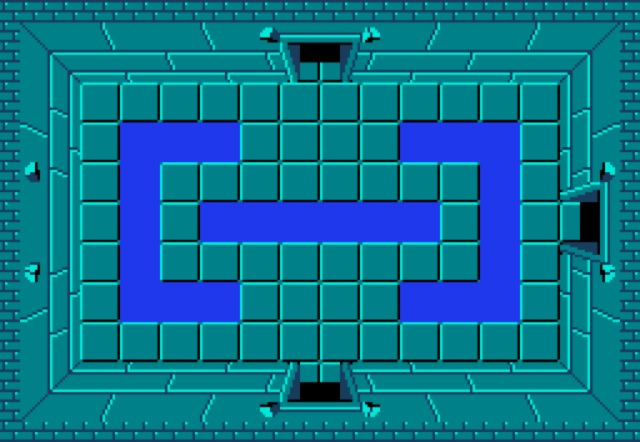
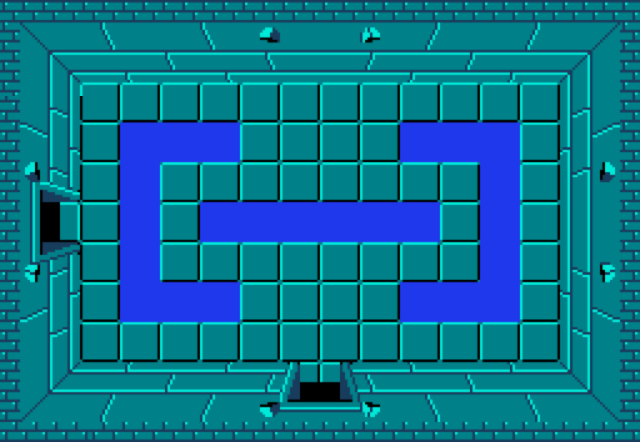
Start setting up map 2

Changed region(s): [[0.0, 0.2059, 0.1562, 1.0], [0.4375, 0.0588, 0.5625, 0.2059], [0.875, 0.4118, 0.9688, 0.5882]]

diff --git a/src/components/maps/2.js b/src/components/maps/2.js
@@ -3,19 +3,19 @@ import * as map3 from './3'
 
 export const name = 'map2';
 
-export const background = require('../../maps/7.png');
+export const background = require('../../maps/8.png');
 
 export const tiles = [
-  [ 0, 0, 0, 0, 0, 0, 0, 0, 0, 0, 0, 0, 0, 0, 0, 0 ],
-  [ 0, 0, 0, 0, 0, 0, 0, 0, 0, 0, 0, 0, 0, 0, 0, 0 ],
-  [ 0, 0, 0, 0, 0, 0, 0, 0, 0, 0, 0, 0, 0, 0, 0, 0 ],
-  [ 0, 0, 0, 0, 0, 0, 0, 0, 0, 0, 0, 0, 0, 0, 0, 0 ],
-  [ 0, 0, 0, 0, 0, 0, 0, 0, 0, 0, 0, 0, 0, 0, 0, 0 ],
-  [ 0, 4, 3, 0, 0, 0, 0, 0, 0, 0, 0, 0, 0, 0, 0, 0 ],
-  [ 0, 0, 0, 0, 0, 0, 0, 0, 0, 0, 0, 0, 0, 0, 0, 0 ],
-  [ 0, 0, 0, 0, 0, 0, 0, 0, 0, 0, 0, 0, 0, 0, 0, 0 ],
-  [ 0, 0, 0, 0, 0, 0, 0, 0, 0, 0, 0, 0, 0, 0, 0, 0 ],
-  [ 0, 0, 0, 0, 0, 0, 0, 4, 4, 0, 0, 0, 0, 0, 0, 0 ],
+  [ 2, 2, 2, 2, 2, 2, 2, 2, 2, 2, 2, 2, 2, 2, 2, 2 ],
+  [ 2, 2, 2, 2, 2, 2, 2, 2, 2, 2, 2, 2, 2, 2, 2, 2 ],
+  [ 2, 2, 0, 0, 0, 0, 0, 0, 0, 0, 0, 0, 0, 0, 2, 2 ],
+  [ 2, 2, 0, 2, 2, 2, 0, 0, 0, 0, 2, 2, 2, 0, 2, 2 ],
+  [ 2, 2, 0, 2, 0, 0, 0, 0, 0, 0, 0, 0, 2, 0, 2, 2 ],
+  [ 2, 4, 3, 2, 0, 2, 2, 2, 2, 2, 2, 0, 2, 0, 2, 2 ],
+  [ 2, 2, 0, 2, 0, 0, 0, 0, 0, 0, 0, 0, 2, 0, 2, 2 ],
+  [ 2, 2, 0, 2, 2, 2, 0, 0, 0, 0, 2, 2, 2, 0, 2, 2 ],
+  [ 2, 2, 0, 0, 0, 0, 0, 0, 0, 0, 0, 0, 0, 0, 2, 2 ],
+  [ 2, 2, 2, 2, 2, 2, 2, 4, 4, 2, 2, 2, 2, 2, 2, 2 ],
 ];
 
 export const doors = [

diff --git a/src/components/game.js b/src/components/game.js
@@ -4,7 +4,7 @@ import PoopInvadersChallenge from './challenges/PoopInvadersChallenge';
 import TuxChallenge from './challenges/TuxChallenge';
 import Bounce from 'bounce.js';
 
-import * as map1 from './maps/1'
+import * as map1 from './maps/2'
 
 const safeGet = (matrix, row, column) => {
   if (!matrix) return null;
@@ -236,6 +236,7 @@ export default class Game extends Component {
 
     setTimeout(() => {
       clearInterval(id)
+      this.setState({ justStarted: false })
     }, 11000)
   }
   
@@ -448,7 +449,7 @@ export default class Game extends Component {
         position: 'absolute',
         width: '640px'
       }}>
-        {this.state.justStarted && <Intro opacity={this.state.introOpacity} />}
+        {/* {this.state.justStarted && <Intro opacity={this.state.introOpacity} />} */}
         {this.state.numHearts === 0 && <Gameover restart={this.restart} />}
         <div className="map" style={{
           float: 'left',

diff --git a/src/components/maps/1.js b/src/components/maps/1.js
@@ -11,7 +11,7 @@ export const tiles = [
   [ 2, 2, 1, 1, 1, 1, 1, 1, 1, 2, 2, 2, 2, 2, 2, 2 ],
   [ 2, 2, 1, 1, 1, 1, 1, 1, 1, 1, 1, 2, 2, 2, 2, 2 ],
   [ 2, 2, 1, 1, 1, 1, 1, 1, 1, 1, 1, 1, 2, 2, 2, 2 ],
-  [ 2, 2, 1, 1, 1, 1, 1, 3, 1, 1, 1, 1, 1, 1, 1, 2 ],
+  [ 2, 2, 1, 1, 1, 1, 1, 3, 1, 1, 1, 1, 1, 1, 4, 2 ],
   [ 2, 2, 1, 1, 1, 1, 1, 1, 1, 1, 1, 1, 2, 2, 2, 2 ],
   [ 2, 2, 1, 1, 1, 1, 1, 1, 1, 1, 1, 2, 2, 2, 2, 2 ],
   [ 2, 2, 1, 1, 1, 1, 1, 1, 1, 2, 2, 2, 2, 2, 2, 2 ],
